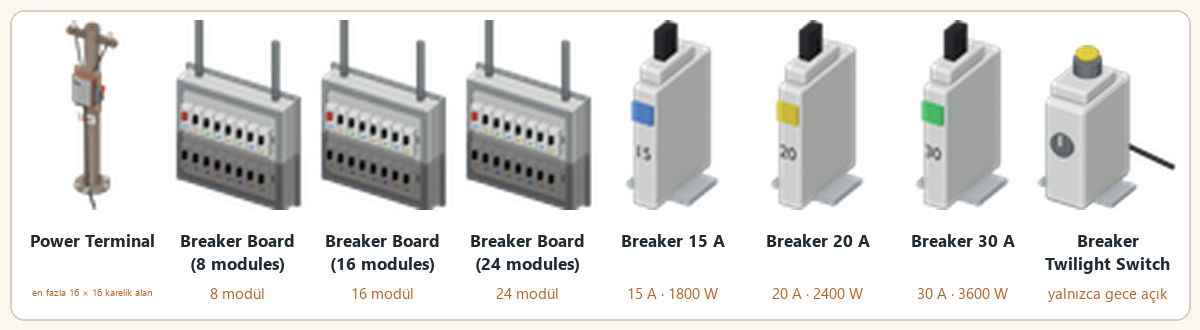
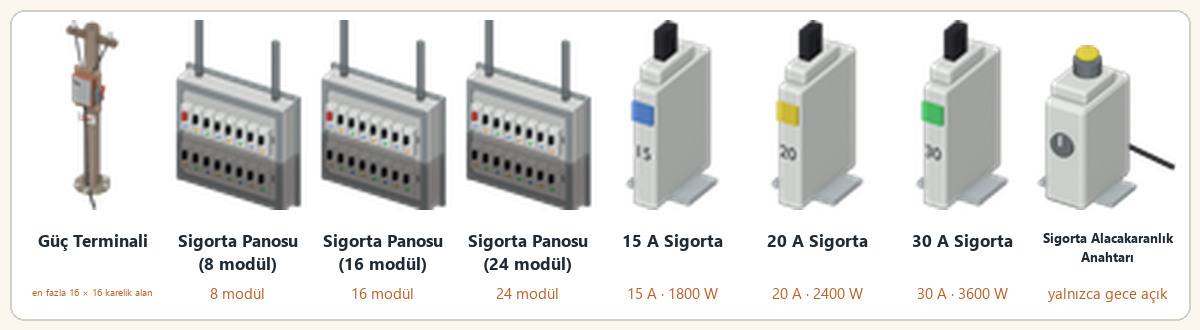
Align READMEs and specs with corrected figures, fix hum tooltip range
- README.md, README_fr.md, specifications: solar 0.93/0.60 kWh before
  efficiency (0.79/0.51 with 0.85), wind 4.7 kWh/day at a steady 25 km/h,
  sizing table and day lengths from wiki page 04.
- READMEs: 31 recipes (16 make, 15 dismantle); only solar cells cannot
  be dismantled; game item names (Scrap Electronics, Aluminum Foil,
  Pieces electroniques, Travail des metaux).
- Hum volume tooltip: heard about two tiles (distanceMax = 2), 11 languages.
- FR wiki 01, 02, 10: use the game name for Base.ElectronicsScrap.
- Regenerate Turkish documentation images; check_mod comments say eleven.

Changed region(s): [[0.0308, 0.697, 0.4933, 0.8182], [0.5242, 0.697, 0.9867, 0.8182]]

diff --git a/tools/translations_ixx.py b/tools/translations_ixx.py
@@ -531,7 +531,7 @@ OTHER_ROWS = [
     ('Tooltip_LW_TooManySlaves', 'Ein Hauptwechselrichter nimmt höchstens %1 gekoppelte Wechselrichter auf.|Un inversor maestro acepta como máximo %1 inversores acoplados.|Um inversor principal aceita no máximo %1 inversores acoplados.|Um inversor mestre aceita no máximo %1 inversores acoplados.|Ведущий инвертор принимает не более %1 сцепленных инверторов.|一台主逆变器最多可并联 %1 台逆变器。|親のインバーターに連結できるのは最大 %1 台までです。|마스터 인버터는 병렬 연결된 인버터를 최대 %1대까지 받을 수 있습니다.|Bir ana invertör en fazla %1 eşlenmiş invertör alır.'),
     ('UI_LW_Options_Title', 'LiveWire|LiveWire|LiveWire|LiveWire|LiveWire|LiveWire|LiveWire|LiveWire|LiveWire'),
     ('UI_LW_Options_HumVolume', 'Lautstärke des Wechselrichter-Brummens (0-100)|Volumen del zumbido del inversor (0-100)|Volume do zumbido do inversor (0-100)|Volume do zumbido do inversor (0-100)|Громкость гула инвертора (0-100)|逆变器嗡嗡声音量 (0-100)|インバーターのうなり音量(0-100)|인버터 웅웅거림 음량 (0-100)|İnvertör uğultusu ses düzeyi (0-100)'),
-    ('UI_LW_Options_HumVolume_tooltip', '0 = kein Brummen. Nur für dich; man hört es ein Feld um einen laufenden Wechselrichter.|0 = sin zumbido. Solo para ti; se oye a una casilla alrededor de un inversor encendido.|0 = sem zumbido. Só para ti; ouvido a uma casa à volta de um inversor em funcionamento.|0 = nenhum zumbido. Somente para você; ouvido a uma casa ao redor de um inversor ligado.|0 = без гула. Только для вас; слышен в одной клетке вокруг работающего инвертора.|0 = 无嗡嗡声. 仅对你生效; 在运行中的逆变器周围一格内可听到.|0でうなり音なし。自分だけに聞こえ、動作中のインバーターの1マス周囲で鳴ります。|0 = 웅웅거림 없음. 본인에게만 적용되며, 가동 중인 인버터에서 한 타일 이내에서만 들립니다.|0 = uğultu yok. Yalnızca sizin için; çalışan bir invertörün bir kare çevresinde duyulur.'),
+    ('UI_LW_Options_HumVolume_tooltip', '0 = kein Brummen. Nur für dich; man hört es etwa zwei Felder um einen laufenden Wechselrichter.|0 = sin zumbido. Solo para ti; se oye a unas dos casillas alrededor de un inversor encendido.|0 = sem zumbido. Só para ti; ouvido a cerca de duas casas à volta de um inversor em funcionamento.|0 = nenhum zumbido. Somente para você; ouvido a cerca de duas casas ao redor de um inversor ligado.|0 = без гула. Только для вас; слышен примерно в двух клетках вокруг работающего инвертора.|0 = 无嗡嗡声. 仅对你生效; 在运行中的逆变器周围约两格内可听到.|0でうなり音なし。自分だけに聞こえ、動作中のインバーターの約2マス周囲で鳴ります。|0 = 웅웅거림 없음. 본인에게만 적용되며, 가동 중인 인버터에서 약 두 타일 이내에서만 들립니다.|0 = uğultu yok. Yalnızca sizin için; çalışan bir invertörün yaklaşık iki kare çevresinde duyulur.'),
 ]
 OTHER_LANGS = LANGS[2:]
 

diff --git a/tools/check_mod.py b/tools/check_mod.py
@@ -383,7 +383,7 @@ def check_extended_info():
 
 
 # Keys allowed in EN and FR only while a step is under way (English fallback in game).
-X_PENDING_TRANSLATION = set()  # emptied at E23: the ten languages are complete
+X_PENDING_TRANSLATION = set()  # emptied at E23: the eleven languages are complete
 def check_extended_translations():
     """Keys *_LWX_* used by the sub-mod exist in its own EN and FR files; others like EN."""
     used = set()
@@ -421,7 +421,7 @@ def check_extended_translations():
             keys.update(json.loads(raw.decode("utf-8-sig")))
         for k in sorted(set(keys) ^ set(tr["EN"])):
             if k not in keys and k in X_PENDING_TRANSLATION:
-                continue  # English fallback until the ten-language pass (plan step E23)
+                continue  # English fallback until the eleven-language pass (plan step E23)
             fail("Extended %s: key %s %s" % (lang, k, "missing" if k in tr["EN"] else "unknown"))
         for k, v in keys.items():
             en = tr["EN"].get(k)

diff --git a/tools/translations_src.py b/tools/translations_src.py
@@ -319,7 +319,7 @@ for k, en, fr in [
 for k, en, fr in [
     ("UI_LW_Options_Title", "LiveWire", "LiveWire"),
     ("UI_LW_Options_HumVolume", "Inverter hum volume (0-100)", "Volume du bourdonnement de l'onduleur (0-100)"),
-    ("UI_LW_Options_HumVolume_tooltip", "0 = no hum. Only for you; heard one tile around a running inverter.", "0 = aucun bourdonnement. Pour vous seul ; il s'entend à une case autour d'un onduleur allumé."),
+    ("UI_LW_Options_HumVolume_tooltip", "0 = no hum. Only for you; heard about two tiles around a running inverter.", "0 = aucun bourdonnement. Pour vous seul ; il s'entend à environ deux cases autour d'un onduleur allumé."),
 ]:
     add("UI", k, en, fr)
 

diff --git a/README_fr.md b/README_fr.md
@@ -222,7 +222,7 @@ Le serveur calcule toutes les 10 minutes de jeu, joueurs présents ou non (optio
 - Rendement d'installation (niveau d'Électricité de celui qui branche l'appareil, au premier branchement ; le meilleur niveau vu est gardé) : 0,85 (niveaux 0 à 6), 0,95 (niveaux 7 et 8), 1,0 (niveaux 9 et 10).
 - Chaque source lisse sa sortie (réponse sur 30 minutes de jeu) : un nuage de passage ne fait pas vaciller la maison.
 
-**Solaire (100 W)** : courbe sinusoïdale entre l'aube et le crépuscule de la saison ; un ciel couvert laisse 20 % (facteur × (1 − 0,8 × nuages)) ; la neige recouvre le panneau pendant les chutes et fond au-dessus de 0 °C (action « Déneiger »). Environ 0,94 kWh par jour d'été et 0,60 kWh en hiver (panneau neuf, ciel clair).
+**Solaire (100 W)** : courbe sinusoïdale entre l'aube et le crépuscule de la saison ; un ciel couvert laisse 20 % (facteur × (1 − 0,8 × nuages)) ; la neige recouvre le panneau pendant les chutes et fond au-dessus de 0 °C (action « Déneiger »). Environ 0,93 kWh par jour d'été et 0,60 kWh en hiver (panneau neuf, ciel dégagé), avant rendement d'installation. Avec le rendement habituel de 0,85 (niveau 3 à 6 d'Électricité), cela fait environ 0,79 kWh et 0,51 kWh.
 
 **Éolien (400 W)** : part de la puissance nominale selon la vitesse du vent v, avec +15 % de vent par étage jusqu'au 3e.
 
@@ -278,9 +278,9 @@ La limite de l'onduleur reste **1 500 W** (4 500 W pour l'armoire onduleur ; les
 
 ### Exemple de dimensionnement
 
-Journée de référence : un frigo-congélateur toute la journée, 10 lumières pendant 6 heures, la télévision pendant 3 heures, plus l'onduleur à vide (20 W). Lumières et télévision servent la nuit. Une nuit d'hiver dure 14 heures.
+Journée de référence : un frigo-congélateur toute la journée, 10 lumières pendant 6 heures, la télévision pendant 3 heures, plus l'onduleur à vide (20 W). Lumières et télévision servent la nuit. Une nuit d'hiver dure 14 heures. La demande du soir exclut la consommation à vide de l'onduleur (20 W) ; l'énergie par jour et la nuit d'hiver l'incluent.
 
-| Profil | Demande le soir | Énergie par jour | Nuit d'hiver | Batteries pour la nuit |
+| Profil | Demande le soir (hors à vide) | Énergie par jour | Nuit d'hiver | Batteries pour la nuit |
 |---|---|---|---|---|
 | Ultra-réaliste 1993 | 1 300 W | 11,2 kWh | 9,2 kWh | environ 16 batteries de voiture ou 7 stationnaires |
 | Réaliste 1993 | 810 W | 7,4 kWh | 5,9 kWh | environ 10 batteries de voiture ou 4 stationnaires |
@@ -289,20 +289,20 @@ Journée de référence : un frigo-congélateur toute la journée, 10 lumières 
 
 (Batterie de voiture standard : 0,6 kWh ; batterie stationnaire : 1,5 kWh ; batteries neuves en parfait état.)
 
-Production d'hiver des sources : panneau solaire environ 0,6 kWh/jour, roue à aubes environ 2,9 kWh/jour, éolienne environ 0,7 kWh/jour avec un vent moyen de 25 km/h.
+Production des sources par jour, pour des équipements neufs, ciel dégagé, rendement d'installation de 0,85 (niveau 3 à 6 d'Électricité) et un vent stable de 25 km/h au niveau du sol : panneau solaire environ 0,79 kWh en été et 0,51 kWh en hiver ; roue à aubes environ 2,0 kWh en été et 2,4 kWh en automne ou en hiver ; éolienne environ 4,7 kWh dans les deux saisons. Le vent réel varie, et une éolienne ne produit rien sous 10 km/h ni au-dessus de 85 km/h.
 
-| Installation | Été (kWh/jour) | Hiver (kWh/jour) | Suffisant pour |
+| Installation | Été (kWh/jour) | Hiver (kWh/jour) | Suffisant pour (à comparer à l'énergie par jour ci-dessus) |
 |---|---|---|---|
-| 4 panneaux | 3,8 | 2,4 | Confort |
-| 6 panneaux + 1 éolienne | 6,3 | 4,3 | Valeurs du jeu |
-| 1 roue à aubes + 8 panneaux | 9,8 | 7,7 | Réaliste 1993 |
-| 2 roues à aubes + 9 panneaux | 13,1 | 11,2 | Ultra-réaliste 1993 (tout juste) |
+| 4 panneaux | 3,2 | 2,0 | Confort en été, juste en dessous en hiver (2,1 nécessaires) |
+| 6 panneaux + 1 éolienne | 9,5 | 7,8 | Réaliste 1993 dans les deux saisons |
+| 1 roue à aubes + 8 panneaux | 8,3 | 6,5 | Réaliste 1993 en été, Valeurs du jeu en hiver |
+| 2 roues à aubes + 9 panneaux | 11,0 | 9,5 | Réaliste 1993 dans les deux saisons ; Ultra-réaliste 1993 juste en dessous en été (11,2 nécessaires) |
 
 Le nombre de panneaux n'est pas limité : les productions s'additionnent (100 W nominaux chacun). La limite de 1 500 W s'applique à la demande de la maison, pas à la production.
 
 ## Recettes
 
-LiveWire compte 28 recettes : 16 pour fabriquer les appareils et les pièces, 12 pour les démonter. Elles sont dans le menu d'artisanat. Les recettes d'Électricité se débloquent automatiquement au niveau requis ; les pales et le mât sont dans **Métallerie**, sans niveau d'Électricité requis. Les outils sont conservés (certains peuvent s'user). Toutes donnent de l'XP d'Électricité, y compris pales, mât et démontage du testeur. Démonter un appareil rend des pièces ; les pièces électroniques dépendent de son état. Les batteries stationnaires, les cellules photovoltaïques, les pales et les mâts d'éolienne ne se démontent pas.
+LiveWire compte 31 recettes : 16 pour fabriquer les appareils et les pièces, 15 pour les démonter. Elles sont dans le menu d'artisanat. Les recettes d'Électricité se débloquent automatiquement au niveau requis ; les pales et le mât sont dans **Travail des métaux**, sans niveau d'Électricité requis. Les outils sont conservés (certains peuvent s'user). Toutes donnent de l'XP d'Électricité, y compris pales, mât et démontage du testeur. Démonter un appareil rend des pièces ; les pièces électroniques dépendent de son état. Seules les cellules photovoltaïques ne se démontent pas.
 
 ![Planche illustrée des recettes LiveWire](https://raw.githubusercontent.com/cyberbobjr/LiveWire/main/docs/images/diagrams/recipe_book_fr.png)
 
@@ -316,7 +316,7 @@ Project Zomboid tire chaque objet indépendamment à chaque tirage d'une liste d
 
 Réglez **Fréquence des équipements et pièces LiveWire** dans la page sandbox **LiveWire** : **5 par défaut**, de **1 à 20**. Redémarrez le jeu ou le serveur dédié après modification. Seuls les prochains tirages sont concernés, y compris la réapparition vanilla du butin si elle est activée ; aucun remplissage des conteneurs déjà fouillés. À 1, les poids de base s'appliquent et les nouveaux lieux sont conservés. Les disques de logiciel gardent leur propre taux.
 
-Tous les poids et chances par conteneur : [Tables de butin](https://github.com/cyberbobjr/LiveWire/wiki/FR-09-tables-de-butin). Par ailleurs : 1 cellule photovoltaïque par calculatrice démontée (sans niveau) ; au niveau 3, une cellule se fabrique à partir de 5 déchets électroniques et 1 aluminium.
+Tous les poids et chances par conteneur : [Tables de butin](https://github.com/cyberbobjr/LiveWire/wiki/FR-09-tables-de-butin). Par ailleurs : 1 cellule photovoltaïque par calculatrice démontée (sans niveau) ; au niveau 3, une cellule se fabrique à partir de 5 × Pièces électroniques et 1 × Aluminium.
 
 ## Usure et entretien
 
@@ -331,9 +331,9 @@ Tous les poids et chances par conteneur : [Tables de butin](https://github.com/c
 | Powerbank, alarme | −1 tous les 30 jours | — |
 | Batterie | 100 / durée de vie par cycle complet | Décharge sous 20 % : usure doublée ; autodécharge 0,2 % par jour |
 
-- **Réparation** : 1 déchet électronique + 1 fil électrique, gain de 5 + niveau d'Électricité points (jusqu'à 90). Chance d'échec : max(5, 40 − 5 × niveau) %, divisée par deux dès le niveau 8 ; les pièces sont perdues en cas d'échec.
-- **Remise à neuf** (niveau 3, 4 déchets électroniques + 2 fils) : retour à 100.
-- **Reconditionnement d'une batterie** : Électricité 4, ou 6 pour une batterie morte ; tournevis conservé, 1 déchet électronique + 1 fil + 0,5 L d'eau. +15 d'état, plafond 80, quatre réparations au maximum. Cycles et énergie conservés ; une batterie morte revient vide.
+- **Réparation** : 1 × Pièces électroniques + 1 fil électrique, gain de 5 + niveau d'Électricité points (jusqu'à 90). Chance d'échec : max(5, 40 − 5 × niveau) %, divisée par deux dès le niveau 8 ; les pièces sont perdues en cas d'échec.
+- **Remise à neuf** (niveau 3, 4 × Pièces électroniques + 2 fils) : retour à 100.
+- **Reconditionnement d'une batterie** : Électricité 4, ou 6 pour une batterie morte ; tournevis conservé, 1 × Pièces électroniques + 1 fil + 0,5 L d'eau. +15 d'état, plafond 80, quatre réparations au maximum. Cycles et énergie conservés ; une batterie morte revient vide.
 - **Testeur de tension** (`LiveWire.VoltageTester`) : clic droit sur une case > LiveWire > Mesurer. Alimentée oui/non (niveau 0), origine (1), consommation de l'appareil (2), bilan du réseau (4).
 
 **Test et équipement hors d'usage :** testez une batterie en inventaire aux niveaux 1/3/5 pour des mesures de plus en plus détaillées. Un équipement hors d'usage se ramasse et se démonte depuis le menu d'artisanat : ses pièces électroniques dépendent de son état. Éteignez l'onduleur maître avant d'intervenir ; voir les [règles de sécurité](https://github.com/cyberbobjr/LiveWire/wiki/FR-10-competence-electricite-et-entretien).

diff --git a/README.md b/README.md
@@ -232,7 +232,7 @@ The server computes every 10 game minutes, players present or not (sandbox `Simu
 
 ### Solar (100 W)
 
-Sine curve between the season's dawn and dusk. Clouds leave 20 % at full overcast (factor × (1 − 0.8 × clouds)). Snow builds up on the panel during snowfall and melts above 0 °C (use the "Clear the snow" action). About 0.94 kWh per summer day and 0.60 kWh in winter (new panel, clear sky).
+Sine curve between the season's dawn and dusk. Clouds leave 20 % at full overcast (factor × (1 − 0.8 × clouds)). Snow builds up on the panel during snowfall and melts above 0 °C (use the "Clear the snow" action). A new panel under a clear sky gives about 0.93 kWh per summer day and 0.60 kWh in winter, before installation efficiency. With the usual 0.85 (Electrical 3 to 6), that is about 0.79 kWh and 0.51 kWh.
 
 ### Wind (400 W)
 
@@ -292,9 +292,9 @@ The inverter limit stays **1,500 W** (4,500 W for the inverter cabinet; [coupled
 
 ### Sizing example
 
-A reference day: one fridge-freezer all day, 10 lights for 6 hours, the TV for 3 hours, plus the inverter idle (20 W). Lights and TV are used at night. A winter night lasts 14 hours.
+A reference day: one fridge-freezer all day, 10 lights for 6 hours, the TV for 3 hours, plus the inverter idle (20 W). Lights and TV are used at night. A winter night lasts 14 hours. The evening demand leaves out the inverter's 20 W idle draw; the energy per day and the winter night include it.
 
-| Profile | Evening demand | Energy per day | Winter night | Batteries for the night |
+| Profile | Evening demand (without idle) | Energy per day | Winter night | Batteries for the night |
 |---|---|---|---|---|
 | Ultra-realistic 1993 | 1,300 W | 11.2 kWh | 9.2 kWh | about 16 car batteries or 7 deep-cycle |
 | Realistic 1993 | 810 W | 7.4 kWh | 5.9 kWh | about 10 car batteries or 4 deep-cycle |
@@ -303,20 +303,20 @@ A reference day: one fridge-freezer all day, 10 lights for 6 hours, the TV for 3
 
 (Standard car battery: 0.6 kWh; deep-cycle battery: 1.5 kWh; new batteries in full condition.)
 
-Winter production of the sources: solar panel about 0.6 kWh/day, water wheel about 2.9 kWh/day, wind turbine about 0.7 kWh/day with an average 25 km/h wind.
+Production of the sources per day, for new devices, clear sky, installation efficiency 0.85 (Electrical 3 to 6), and a steady 25 km/h wind at ground level: solar panel about 0.79 kWh in summer and 0.51 kWh in winter; water wheel about 2.0 kWh in summer and 2.4 kWh in autumn or winter; wind turbine about 4.7 kWh in both seasons. Real wind varies, and a turbine gives nothing below 10 km/h or above 85 km/h.
 
-| Installation | Summer (kWh/day) | Winter (kWh/day) | Enough for |
+| Installation | Summer (kWh/day) | Winter (kWh/day) | Enough for (compared with the energy per day above) |
 |---|---|---|---|
-| 4 solar panels | 3.8 | 2.4 | Comfort |
-| 6 panels + 1 wind turbine | 6.3 | 4.3 | Game values |
-| 1 water wheel + 8 panels | 9.8 | 7.7 | Realistic 1993 |
-| 2 water wheels + 9 panels | 13.1 | 11.2 | Ultra-realistic 1993 (just) |
+| 4 solar panels | 3.2 | 2.0 | Comfort in summer, just short in winter (2.1 needed) |
+| 6 panels + 1 wind turbine | 9.5 | 7.8 | Realistic 1993 in both seasons |
+| 1 water wheel + 8 panels | 8.3 | 6.5 | Realistic 1993 in summer, Game values in winter |
+| 2 water wheels + 9 panels | 11.0 | 9.5 | Realistic 1993 in both seasons; Ultra-realistic 1993 just short in summer (11.2 needed) |
 
 There is no limit on the number of solar panels; productions add up (100 W nominal each). The 1,500 W limit applies to the house demand, not to production.
 
 ## Recipes
 
-LiveWire has 28 recipes: 16 craft devices and parts, 12 dismantle them. They are in the crafting menu. Electrical recipes unlock automatically at their required level; the blade set and mast are in **Metalworking** and need no Electrical level. Tools are kept (some can wear). Every recipe awards Electrical XP, including blades, masts and tester dismantling. Dismantling a device gives back parts; electronic parts depend on its condition. Deep-cycle batteries, solar cells, wind turbine blades and masts cannot be dismantled.
+LiveWire has 31 recipes: 16 craft devices and parts, 15 dismantle them. They are in the crafting menu. Electrical recipes unlock automatically at their required level; the blade set and mast are in **Metalworking** and need no Electrical level. Tools are kept (some can wear). Every recipe awards Electrical XP, including blades, masts and tester dismantling. Dismantling a device gives back parts; electronic parts depend on its condition. Only solar cells cannot be dismantled.
 
 ![Illustrated recipe board](https://raw.githubusercontent.com/cyberbobjr/LiveWire/main/docs/images/diagrams/recipe_book_en.png)
 
@@ -330,7 +330,7 @@ Project Zomboid tests each item independently at each roll of a container list, 
 
 Set **LiveWire equipment and parts loot multiplier** on the **LiveWire** sandbox page: **5 by default**, from **1 to 20**. Restart the game or dedicated server after a change. Only future loot rolls are affected, including vanilla loot respawn if enabled; searched containers are not refilled. At 1, the base weights apply and the new locations are kept. Software disks keep their own rates.
 
-Full weights and chances per container: [Loot tables](https://github.com/cyberbobjr/LiveWire/wiki/EN-09-loot-tables). Also: 1 solar cell per calculator dismantled (no level); at level 3, a solar cell from 5 electronics scrap + 1 aluminum.
+Full weights and chances per container: [Loot tables](https://github.com/cyberbobjr/LiveWire/wiki/EN-09-loot-tables). Also: 1 solar cell per calculator dismantled (no level); at level 3, a solar cell from 5 Scrap Electronics + 1 Aluminum Foil.
 
 ## Wear and maintenance
 
@@ -345,9 +345,9 @@ Full weights and chances per container: [Loot tables](https://github.com/cyberbo
 | Power bank, alarm | −1 per 30 days | none |
 | Battery | 100 / life cycles per full cycle | Discharge below 20 %: wear doubled; self-discharge 0.2 % per day |
 
-- **Repair:** 1 electronics scrap + 1 electric wire, gain 5 + Electrical level points (up to 90). Failure chance: max(5, 40 − 5 × level) %, halved from level 8; parts are lost on failure.
+- **Repair:** 1 Scrap Electronics + 1 electric wire, gain 5 + Electrical level points (up to 90). Failure chance: max(5, 40 − 5 × level) %, halved from level 8; parts are lost on failure.
 - **Overhaul** (level 3, 4 scrap + 2 wires): back to 100.
-- **Recondition a battery**: Electrical 4, or 6 for a dead battery; kept screwdriver, 1 electronics scrap + 1 wire + 0.5 L water. +15 condition, capped at 80, at most four repairs. Cycles and stored energy remain; a dead battery returns empty.
+- **Recondition a battery**: Electrical 4, or 6 for a dead battery; kept screwdriver, 1 Scrap Electronics + 1 wire + 0.5 L water. +15 condition, capped at 80, at most four repairs. Cycles and stored energy remain; a dead battery returns empty.
 - **Voltage tester** (`LiveWire.VoltageTester`): right-click a tile > LiveWire > Measure. It tells power yes/no (level 0), origin (1), appliance consumption (2), network balance (4).
 
 **Battery testing and broken equipment:** test a battery in inventory at Electrical 1/3/5 for increasingly detailed readings. Pick up broken equipment and dismantle it from the crafting menu: its electronic parts depend on its condition. Switch off the master inverter before live work; see the [safety rules](https://github.com/cyberbobjr/LiveWire/wiki/EN-10-electrical-skill-and-maintenance).

diff --git a/docs/specifications-fonctionnelles.md b/docs/specifications-fonctionnelles.md
@@ -236,7 +236,7 @@ Les noms de recette sont les clés de `Recipes.json` (`java/zombie/core/Translat
   - elle fond de 0,05 par heure au-dessus de 0 °C ;
   - l'action « Déneiger » la remet à 0.
 - **Puissance nominale : 100 W.**
-- **Ordres de grandeur** (panneau neuf, ciel clair) : à la latitude fixe de 38°, le jour dure environ 14,8 h l'été et 9,5 h l'hiver (`ErosionSeason.java:79-80`, `java/zombie/erosion/ErosionConfig.java:425`). Cela donne **≈ 0,94 kWh par jour d'été** et **≈ 0,60 kWh par jour d'hiver**, et 60 % de ces valeurs par ciel moyennement nuageux.
+- **Ordres de grandeur** (panneau neuf, ciel clair) : à la latitude fixe de 38°, le jour dure environ 14,6 h au solstice d'été et 9,4 h au solstice d'hiver (`ErosionSeason.java:79-80`, `java/zombie/erosion/ErosionConfig.java:425`). Cela donne **≈ 0,93 kWh par jour d'été** et **≈ 0,60 kWh par jour d'hiver** avant rendement d'installation, soit ≈ 0,79 et 0,51 kWh avec le rendement de 0,85 (niveaux 0 à 6), et 60 % de ces valeurs par ciel moyennement nuageux.
 
 ### 3.3 Éolienne
 
@@ -271,21 +271,23 @@ Les noms de recette sont les clés de `Recipes.json` (`java/zombie/core/Translat
 
 ### 3.5 Exemple de bilan
 
-Journée de référence : un réfrigérateur-congélateur toute la journée, 10 lumières pendant 6 h, la télévision pendant 3 h, plus la consommation à vide de l'onduleur (20 W). Les valeurs dépendent du profil de consommation (§ 5.3).
+Journée de référence : un réfrigérateur-congélateur toute la journée, 10 lumières pendant 6 h, la télévision pendant 3 h, plus la consommation à vide de l'onduleur (20 W). Les valeurs dépendent du profil de consommation (§ 5.3). La demande du soir exclut la consommation à vide de l'onduleur ; l'énergie par jour et la nuit d'hiver l'incluent.
 
-| Profil | Demande le soir | Énergie par jour | Nuit d'hiver (14 h) | Batteries pour la nuit |
+| Profil | Demande le soir (hors à vide) | Énergie par jour | Nuit d'hiver (14 h) | Batteries pour la nuit |
 |---|---|---|---|---|
 | Ultra-réaliste 1993 | 1 300 W | 11,2 kWh | 9,2 kWh | ≈ 16 batteries de voiture ou 7 stationnaires |
 | Réaliste 1993 | 810 W | 7,4 kWh | 5,9 kWh | ≈ 10 batteries de voiture ou 4 stationnaires |
 | Valeurs du jeu (défaut) | 180 W | 3,8 kWh | 2,3 kWh | ≈ 4 batteries de voiture ou 2 stationnaires |
 | Confort | 90 W | 2,1 kWh | 1,3 kWh | ≈ 3 batteries de voiture ou 1 stationnaire |
 
-| Installation | Été (kWh/j) | Hiver (kWh/j) | Suffisant pour |
+Production par jour des sources neuves, ciel dégagé, rendement d'installation de 0,85 et vent stable de 25 km/h au sol (231 W, soit 196 W après rendement) : panneau ≈ 0,79 kWh en été et 0,51 kWh en hiver ; roue à aubes ≈ 2,0 kWh en été et 2,4 kWh en automne ou en hiver ; éolienne ≈ 4,7 kWh dans les deux saisons (le vent réel varie).
+
+| Installation | Été (kWh/j) | Hiver (kWh/j) | Suffisant pour (énergie par jour ci-dessus) |
 |---|---|---|---|
-| 4 panneaux | 3,8 | 2,4 | Confort |
-| 6 panneaux + 1 éolienne (vent moyen 25 km/h, ≈ 0,7 kWh) | 6,3 | 4,3 | Valeurs du jeu |
-| 1 roue à aubes + 8 panneaux | 9,8 | 7,7 | Réaliste 1993 |
-| 2 roues à aubes + 9 panneaux | 13,1 | 11,2 | Ultra-réaliste 1993 (tout juste) |
+| 4 panneaux | 3,2 | 2,0 | Confort en été, juste en dessous en hiver (2,1 nécessaires) |
+| 6 panneaux + 1 éolienne | 9,5 | 7,8 | Réaliste 1993 dans les deux saisons |
+| 1 roue à aubes + 8 panneaux | 8,3 | 6,5 | Réaliste 1993 en été, Valeurs du jeu en hiver |
+| 2 roues à aubes + 9 panneaux | 11,0 | 9,5 | Réaliste 1993 dans les deux saisons ; Ultra-réaliste 1993 juste en dessous en été (11,2 nécessaires) |
 
 Batterie de voiture standard : 0,6 kWh ; batterie stationnaire : 1,5 kWh (§ 5.1), neuves.
 

diff --git a/docs/wiki/fr/01-premiers-pas.md b/docs/wiki/fr/01-premiers-pas.md
@@ -50,7 +50,7 @@ Une pompe à eau raccordée à l'onduleur alimente les points d'eau de la maison
 
 ## Étape par étape
 
-1. **Trouver une source et un onduleur.** Des panneaux solaires et des onduleurs tout faits se trouvent dans les garages, les quincailleries et les rangements d'électricien ([Tables de butin](09-tables-de-butin.md)). On peut aussi les fabriquer dans la catégorie **Électricité** : le kit de panneau solaire et le kit d'onduleur demandent le niveau 3 d'Électricité. Les cellules solaires, qui entrent dans le kit de panneau, se fabriquent à partir de déchets électroniques ([Recettes](08-recettes.md)).
+1. **Trouver une source et un onduleur.** Des panneaux solaires et des onduleurs tout faits se trouvent dans les garages, les quincailleries et les rangements d'électricien ([Tables de butin](09-tables-de-butin.md)). On peut aussi les fabriquer dans la catégorie **Électricité** : le kit de panneau solaire et le kit d'onduleur demandent le niveau 3 d'Électricité. Les cellules solaires, qui entrent dans le kit de panneau, se fabriquent à partir de Pièces électroniques ([Recettes](08-recettes.md)).
 2. **Les poser** avec le curseur de meubles vanilla. Poser, tourner et ramasser demandent un **tournevis**, sans niveau d'Électricité. Brancher chaque appareil à l'onduleur demande un tournevis, des fils électriques et le niveau d'Électricité de l'appareil ([Raccordement](03-raccordement.md)). Les panneaux solaires et les éoliennes se posent dehors ; une roue à aubes se pose au rez-de-chaussée, au bord d'une rivière ; l'onduleur peut aller à l'intérieur.
 3. **Raccorder la source** : clic droit dessus, **LiveWire**, puis **Raccorder à un onduleur** (ou, depuis l'onduleur, **Raccorder un équipement**). Il faut 1 fil électrique par tranche de 4 cases, arrondi au-dessus ([Raccordement](03-raccordement.md)).
 4. **Vérifier** : le menu clic droit de l'onduleur affiche la zone alimentée (un cercle cyan au sol) et ouvre son écran ([Écran et logiciel](05-ecran-et-logiciel.md)).

diff --git a/docs/wiki/fr/10-competence-electricite-et-entretien.md b/docs/wiki/fr/10-competence-electricite-et-entretien.md
@@ -19,9 +19,9 @@
 
 | Action | Niveau | Coût | Effet |
 |---|---|---|---|
-| Réparer (Repair) | selon l'appareil | 1 déchets électroniques + 1 fil électrique | Gain de 5 + niveau d'Électricité en points d'état (jusqu'à 90). Échec : max(5, 40 − 5 × niveau) %, divisé par deux dès le niveau 8 ; pièces perdues en cas d'échec |
-| Remise à neuf (Overhaul) | 3 | 4 déchets électroniques + 2 fils électriques | Retour à 100 |
-| Reconditionner une batterie | 4, ou 6 si morte | Tournevis conservé, 1 déchet électronique + 1 fil + 0,5 L d'eau | +15 d'état, plafond 80, quatre réparations au maximum ; cycles et énergie conservés, une batterie morte revient vide |
+| Réparer (Repair) | selon l'appareil | 1 × Pièces électroniques + 1 fil électrique | Gain de 5 + niveau d'Électricité en points d'état (jusqu'à 90). Échec : max(5, 40 − 5 × niveau) %, divisé par deux dès le niveau 8 ; pièces perdues en cas d'échec |
+| Remise à neuf (Overhaul) | 3 | 4 × Pièces électroniques + 2 fils électriques | Retour à 100 |
+| Reconditionner une batterie | 4, ou 6 si morte | Tournevis conservé, 1 × Pièces électroniques + 1 fil + 0,5 L d'eau | +15 d'état, plafond 80, quatre réparations au maximum ; cycles et énergie conservés, une batterie morte revient vide |
 
 ## Testeur de tension
 
@@ -82,7 +82,7 @@ charge ; le niveau 3 ajoute énergie, capacité et état ; le niveau 5 ajoute cy
 durée de vie estimée et réparations. Charge, état et cycles restent distincts.
 
 Le reconditionnement existant répare aussi une batterie morte : niveau 4 pour une
-batterie usée, 6 si morte, tournevis, un déchet électronique, un fil électrique et
+batterie usée, 6 si morte, tournevis, 1 × Pièces électroniques, un fil électrique et
 0,5 L d'eau. Gain de 15 points d'état, plafond 80, quatre réparations au maximum.
 La même batterie conserve ses cycles et son énergie ; une batterie morte reste
 vide après réparation. La précision inférieure à une graduation native est

diff --git a/docs/wiki/fr/02-equipements.md b/docs/wiki/fr/02-equipements.md
@@ -43,7 +43,7 @@ Capacité effective = nominale × (0,4 + 0,6 × état/100) × BatteryCapacityMul
 
 ## Pièces
 
-- Les **cellules solaires** (`LiveWire.SolarCell`) se fabriquent avec 5 déchets électroniques et de l'aluminium, au niveau 3 d'Électricité, avec un tournevis et une pince. Une calculatrice démontée avec la recette vanilla « Démonter un appareil électronique simple » donne aussi une cellule solaire.
+- Les **cellules solaires** (`LiveWire.SolarCell`) se fabriquent avec 5 × Pièces électroniques et de l'aluminium, au niveau 3 d'Électricité, avec un tournevis et une pince. Une calculatrice démontée avec la recette vanilla « Démonter un appareil électronique simple » donne aussi une cellule solaire.
 - Le **kit de panneau solaire** demande 10 cellules solaires. Voir [Recettes](08-recettes.md) pour tous les kits.
 - Les **pales et le mât d'éolienne** n'exigent aucun niveau d'Électricité. Les pales se fabriquent avec un tournevis, des cisailles à tôle et un marteau ; le mât avec un tournevis, un marteau et une clé à tuyau. Les deux entrent dans le kit d'éolienne.
 - La **batterie stationnaire** (`LiveWire.DeepCycleBattery`) se fabrique au niveau 3 d'Électricité avec un tournevis et une pince, à partir de deux batteries de voiture, de fil électrique et de ferraille.
